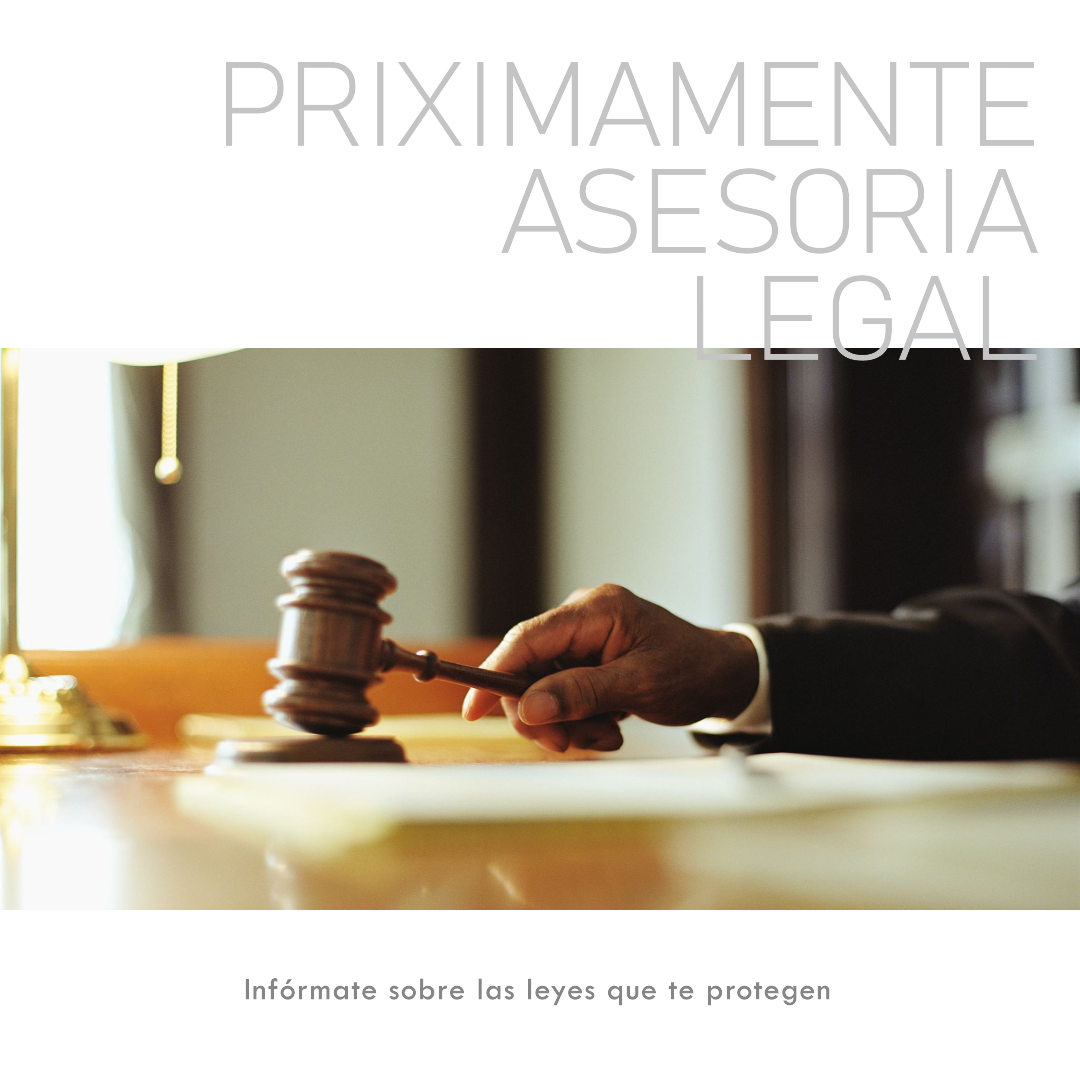
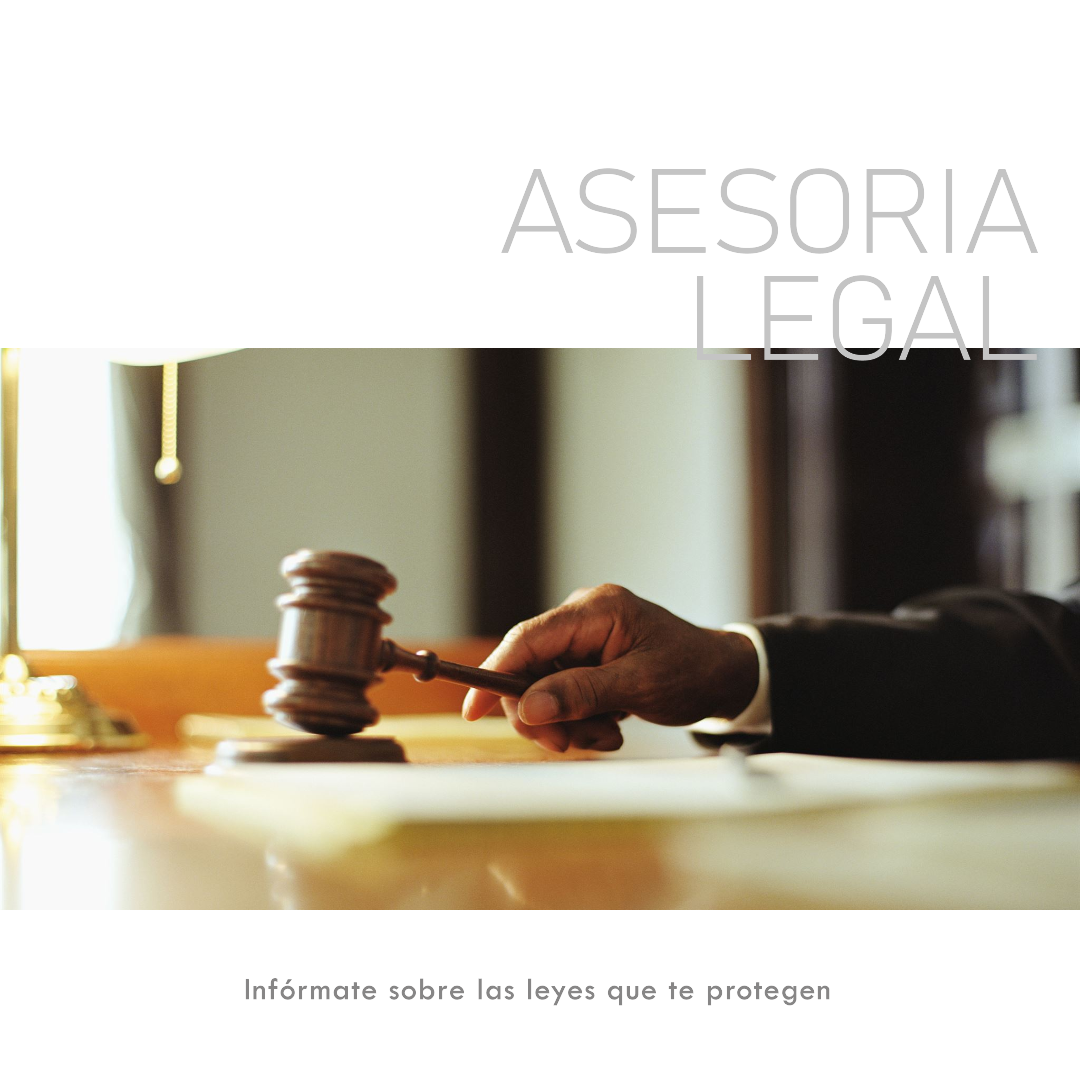
s

Changed region(s): [[0.1833, 0.0306, 0.9472, 0.1528], [0.9167, 0.0306, 0.9472, 0.0611], [0.2139, 0.0306, 0.2444, 0.0611]]

diff --git a/registro.html b/registro.html
@@ -1,0 +1,19 @@
+<!DOCTYPE html>
+<html lang="es">
+<head>
+    <meta charset="UTF-8">
+    <title>Registro de Usuario</title>
+</head>
+<body>
+    <h2>Registro de Usuario</h2>
+    <form action="registrar.php" method="POST">
+        <label for="username">Nombre de usuario:</label>
+        <input type="text" id="username" name="username" required>
+        
+        <label for="password">Contraseña:</label>
+        <input type="password" id="password" name="password" required>
+        
+        <button type="submit">Registrar</button>
+    </form>
+</body>
+</html>

diff --git a/legales.html b/legales.html
@@ -31,7 +31,7 @@
     <main>
         <section class="hero legales-hero">
             <div class="container">
-                <h1>Asesoría Legal para Consorcios</h1>
+                <h1>Asesoría Legal</h1>
                 <p>Ofrecemos servicios de asesoramiento legal especializado, garantizando soluciones eficaces y responsables para la administración de consorcios.</p>
             </div>
         </section>
